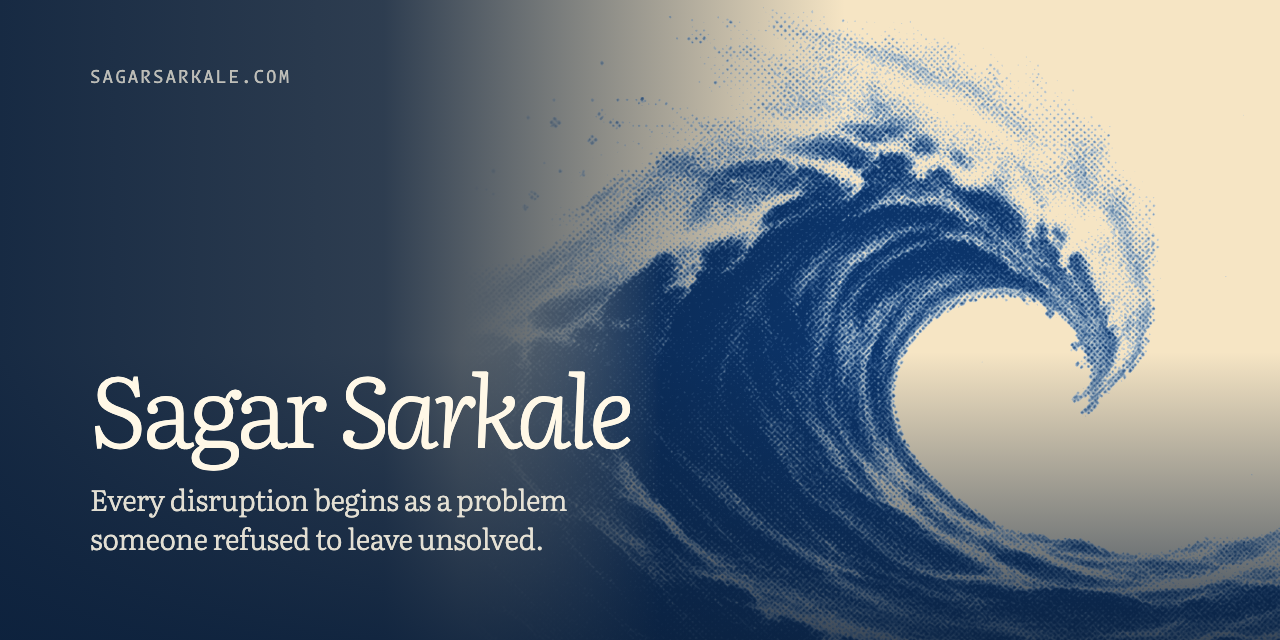
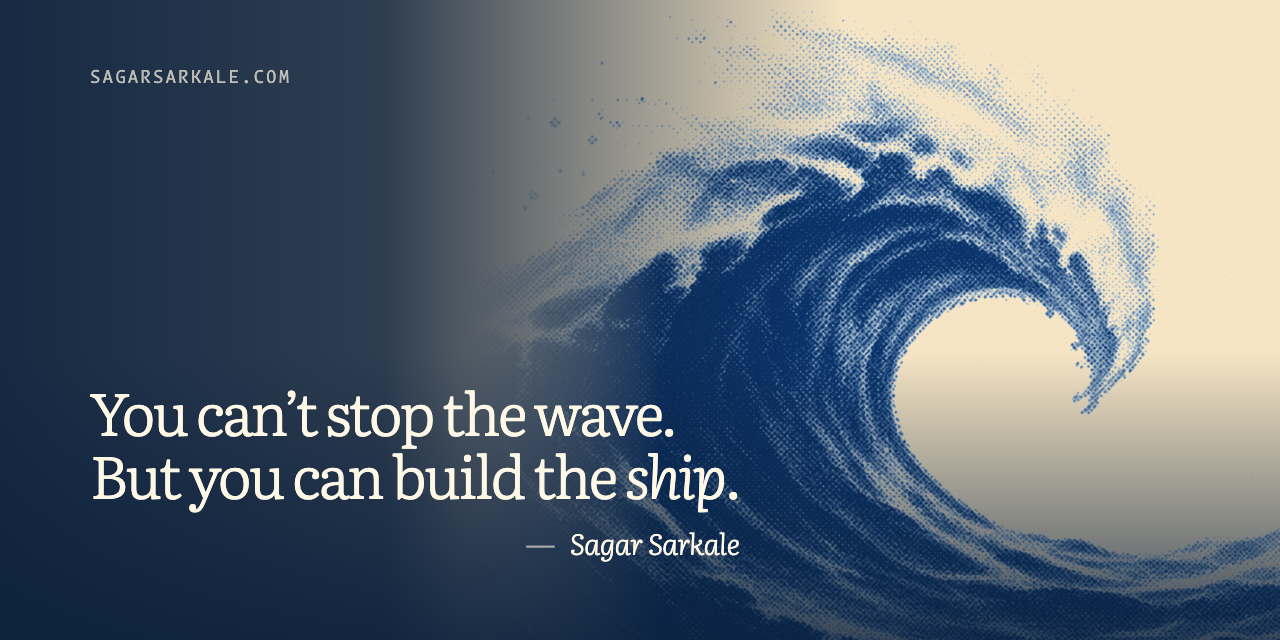
Share the wave quote on social cards and drop shipping jargon
Cards carry the hero quote signed by name, the share title and
description speak to the wave, and homepage copy no longer leans on
"ships".

Changed region(s): [[0.0625, 0.5625, 0.5938, 0.875]]

diff --git a/src/app/layout.tsx b/src/app/layout.tsx
@@ -33,15 +33,15 @@ export const metadata: Metadata = {
     locale: 'en_US',
     url: 'https://sagarsarkale.com',
     siteName: 'Sagar Sarkale',
-    title: 'Sagar Sarkale',
-    description: 'Every disruption begins as a problem someone refused to leave unsolved. Founder of QuickCall and Misal, building with agents and language models.',
+    title: 'Sagar Sarkale — You can’t stop the wave',
+    description: 'The wave is coming either way. Be the one steering through it.',
     images: [
       {
         url: '/social/home.jpg',
         width: 1200,
         height: 630,
         type: 'image/jpeg',
-        alt: 'Sagar Sarkale over a breaking indigo halftone wave: every disruption begins as a problem someone refused to leave unsolved.',
+        alt: 'A breaking indigo halftone wave with the words: You can’t stop the wave. But you can build the ship. — Sagar Sarkale',
       },
       // Square crest for apps that show a square thumbnail instead of a card.
       {
@@ -55,8 +55,8 @@ export const metadata: Metadata = {
   },
   twitter: {
     card: 'summary_large_image',
-    title: 'Sagar Sarkale',
-    description: 'Every disruption begins as a problem someone refused to leave unsolved.',
+    title: 'Sagar Sarkale — You can’t stop the wave',
+    description: 'The wave is coming either way. Be the one steering through it.',
     images: [{ url: '/social/home.jpg', alt: 'Sagar Sarkale over a breaking indigo halftone wave.' }],
     creator: '@sagar_sarkale',
   },

diff --git a/src/app/(site)/page.tsx b/src/app/(site)/page.tsx
@@ -30,7 +30,7 @@ const highlights = [
     label: 'quickcall.dev',
     role: 'Founder',
     period: '2025 – present',
-    desc: 'Compounding memory for agentic engineering teams. It captures what ships and loads what matters, so one developer’s fix becomes every agent’s habit.',
+    desc: 'Compounding memory for agentic engineering teams. It remembers what your team builds and hands the next agent what matters, so one developer’s fix becomes every agent’s habit.',
     facts: [['Works in', 'Claude Code · Cursor · Codex · Gemini CLI'], ['So far', '10M+ messages processed · closed beta']],
     href: 'https://quickcall.dev',
     linkLabel: 'quickcall.dev',
@@ -263,7 +263,7 @@ export default function Home() {
         <div className="close-inner">
           <p className="landing-label">(06) Contact</p>
           <h2>Bring me the <em>hard</em> part.</h2>
-          <p className="close-sub">Agents that forget, models that don’t speak your language, evals nobody has built yet. I’ve shipped my way through all three.</p>
+          <p className="close-sub">Agents that forget, models that don’t speak your language, evals nobody has built yet. I’ve built my way through all three.</p>
           <div className="close-actions">
             <a className="landing-cta is-light" href={CALL} target="_blank" rel="noopener noreferrer">book a call <Arrow /></a>
             <a className="close-mail" href="mailto:sagar@quickcall.dev">sagar@quickcall.dev</a>
